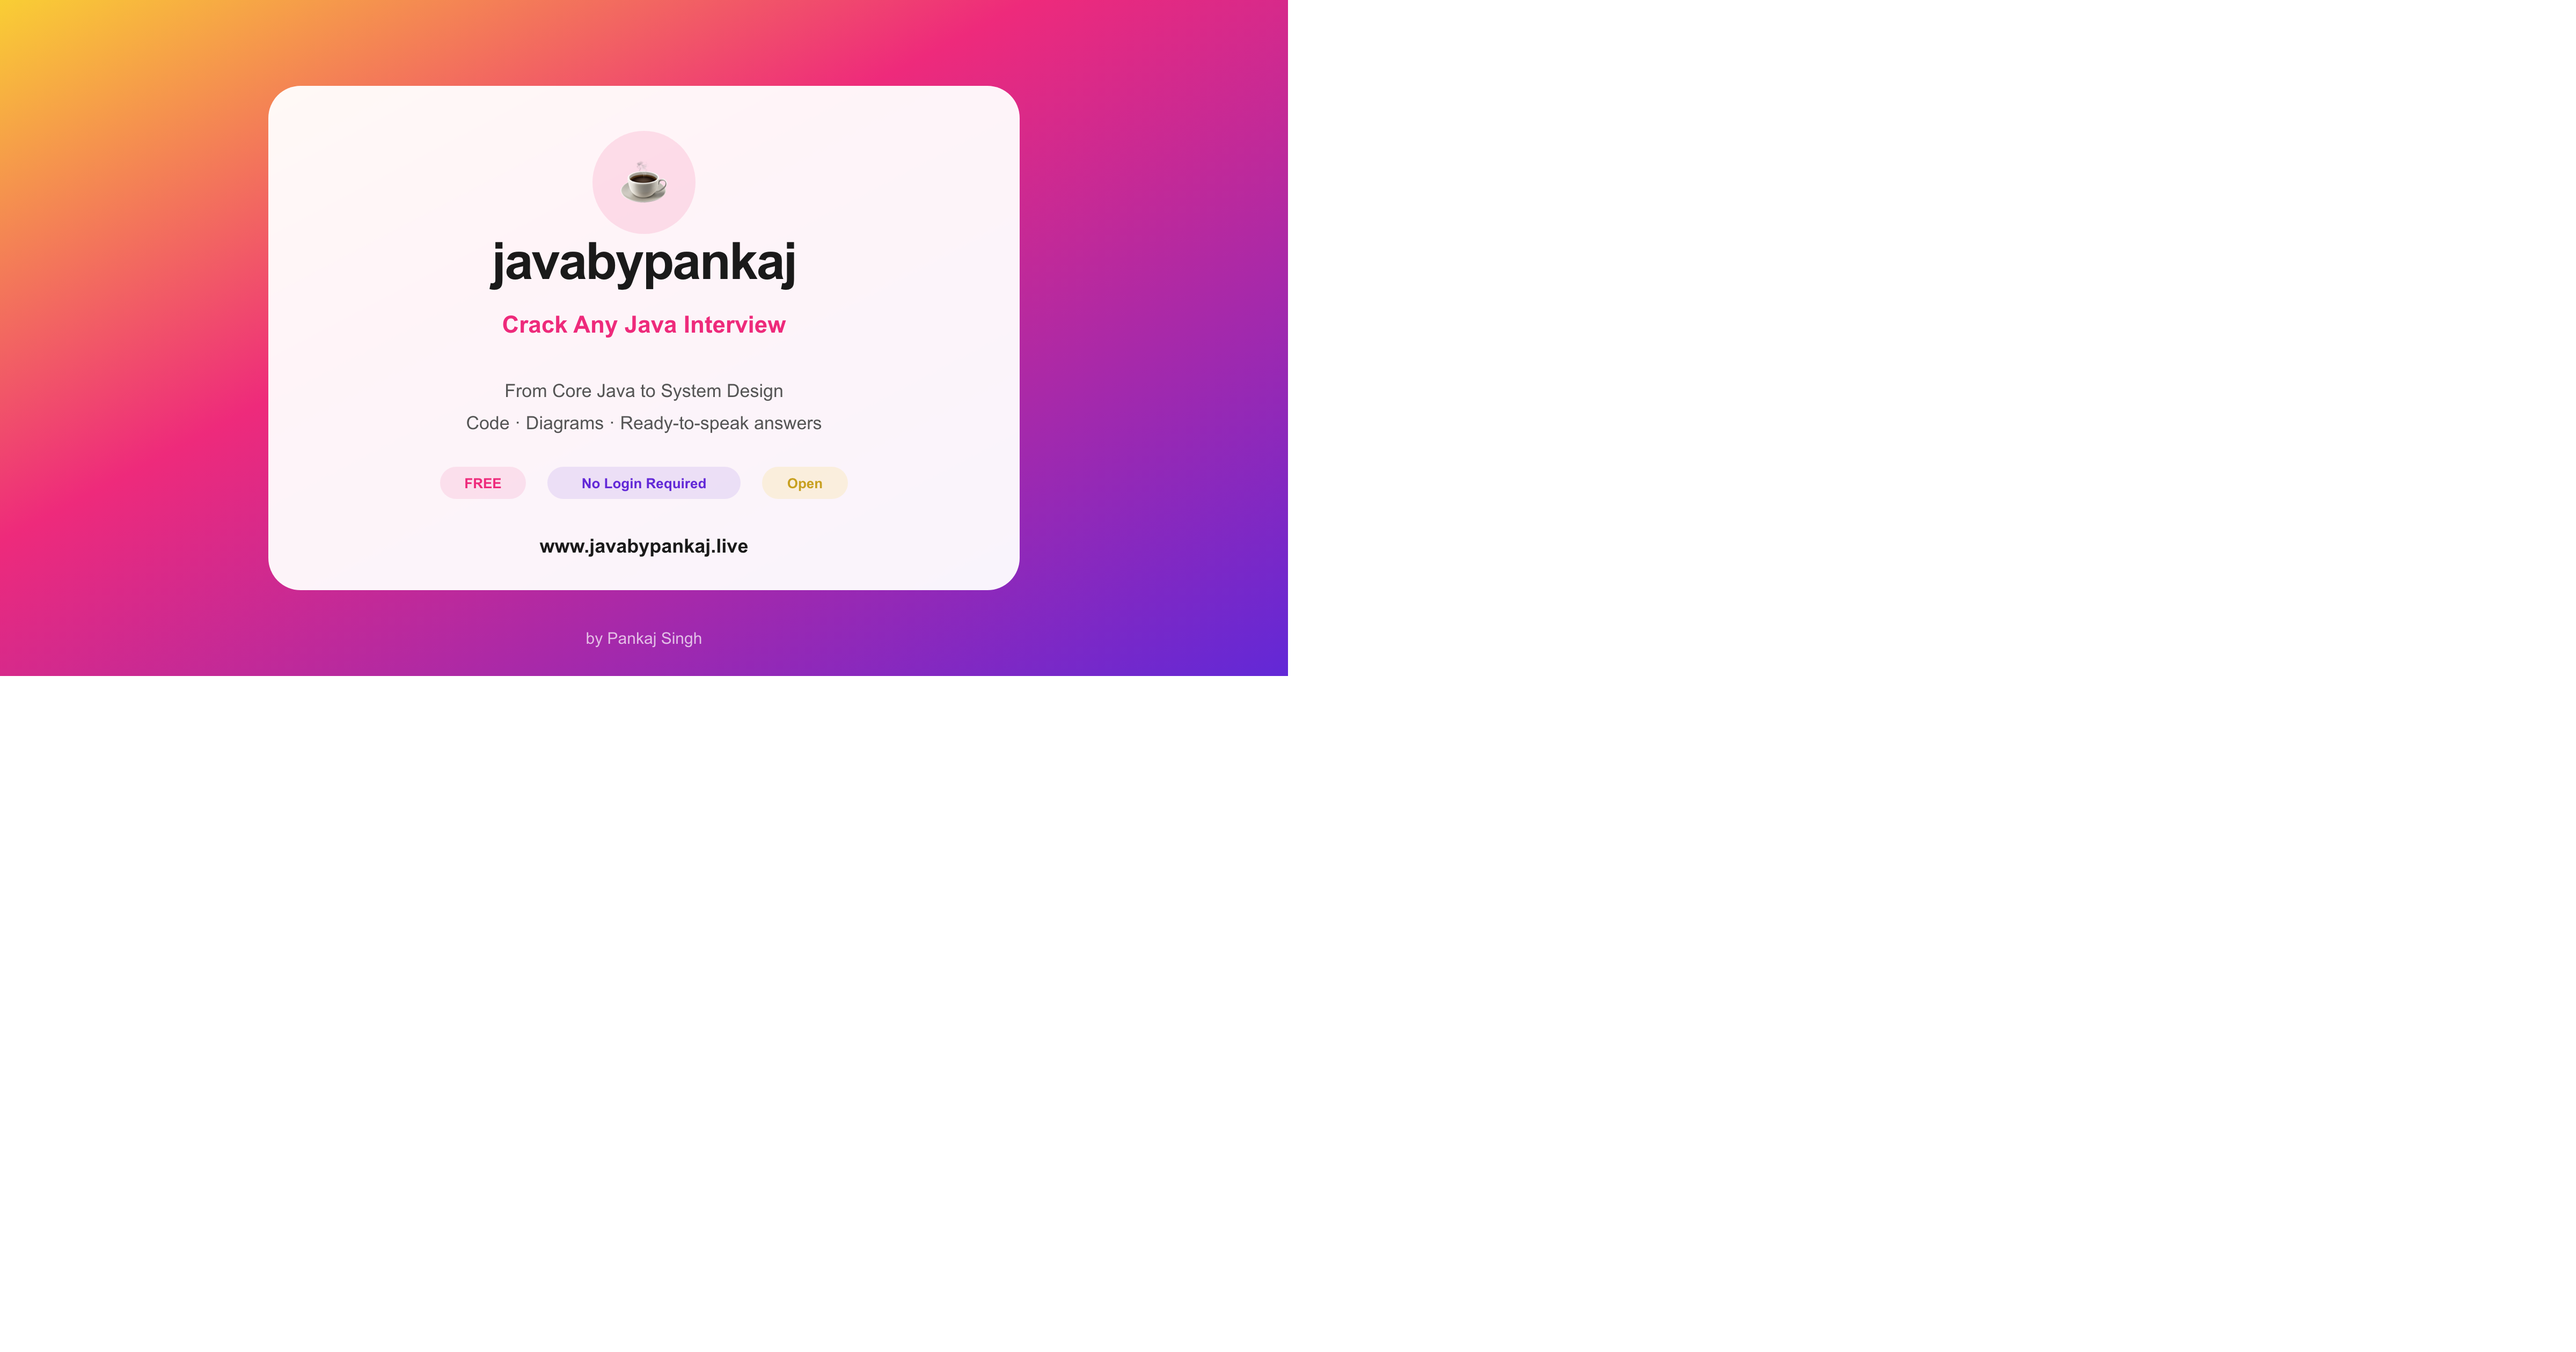
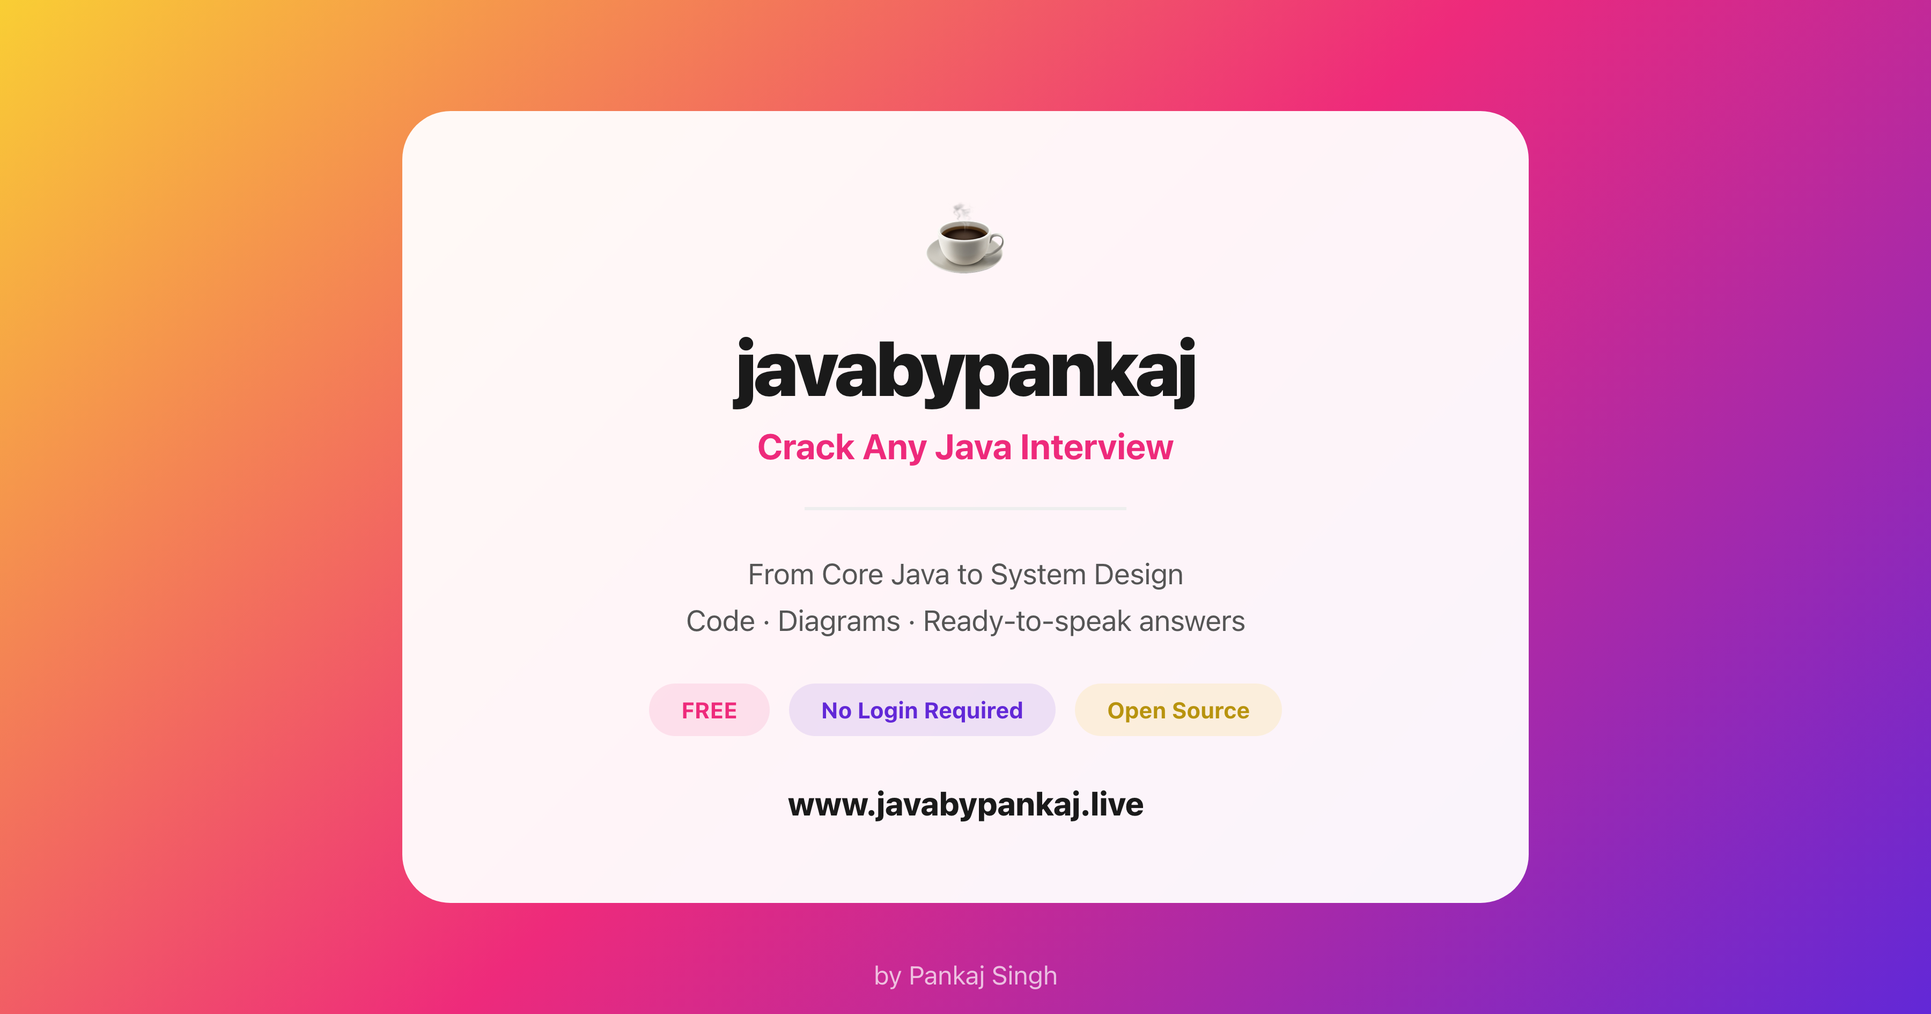
Ultra HD OG image — HTML rendered at 3x for sharp text

diff --git a/og-render.html b/og-render.html
@@ -1,0 +1,38 @@
+<!DOCTYPE html>
+<html>
+<head>
+<style>
+*{margin:0;padding:0;box-sizing:border-box;}
+body{width:1200px;height:630px;background:linear-gradient(135deg,#f9ce34,#ee2a7b,#6228d7);display:flex;align-items:center;justify-content:center;font-family:-apple-system,BlinkMacSystemFont,'Segoe UI',Arial,sans-serif;}
+.card{width:700px;padding:50px;background:rgba(255,255,255,0.95);border-radius:30px;text-align:center;}
+.logo{font-size:50px;margin-bottom:15px;}
+.brand{font-size:48px;font-weight:900;color:#1a1a1a;letter-spacing:-2px;margin-bottom:8px;}
+.tagline{font-size:22px;font-weight:700;color:#ee2a7b;margin-bottom:25px;}
+.divider{width:200px;height:2px;background:#eee;margin:0 auto 25px;}
+.desc{font-size:18px;color:#555;line-height:1.6;margin-bottom:25px;}
+.pills{display:flex;justify-content:center;gap:12px;margin-bottom:30px;}
+.pill{padding:8px 20px;border-radius:20px;font-size:14px;font-weight:700;}
+.pill-pink{background:rgba(238,42,123,0.1);color:#ee2a7b;}
+.pill-purple{background:rgba(98,40,215,0.1);color:#6228d7;}
+.pill-gold{background:rgba(249,206,52,0.15);color:#b8930e;}
+.domain{font-size:20px;font-weight:800;color:#1a1a1a;}
+.author{position:fixed;bottom:15px;left:0;right:0;text-align:center;font-size:16px;color:rgba(255,255,255,0.7);}
+</style>
+</head>
+<body>
+<div class="card">
+  <div class="logo">☕</div>
+  <div class="brand">javabypankaj</div>
+  <div class="tagline">Crack Any Java Interview</div>
+  <div class="divider"></div>
+  <div class="desc">From Core Java to System Design<br>Code · Diagrams · Ready-to-speak answers</div>
+  <div class="pills">
+    <span class="pill pill-pink">FREE</span>
+    <span class="pill pill-purple">No Login Required</span>
+    <span class="pill pill-gold">Open Source</span>
+  </div>
+  <div class="domain">www.javabypankaj.live</div>
+</div>
+<div class="author">by Pankaj Singh</div>
+</body>
+</html>
